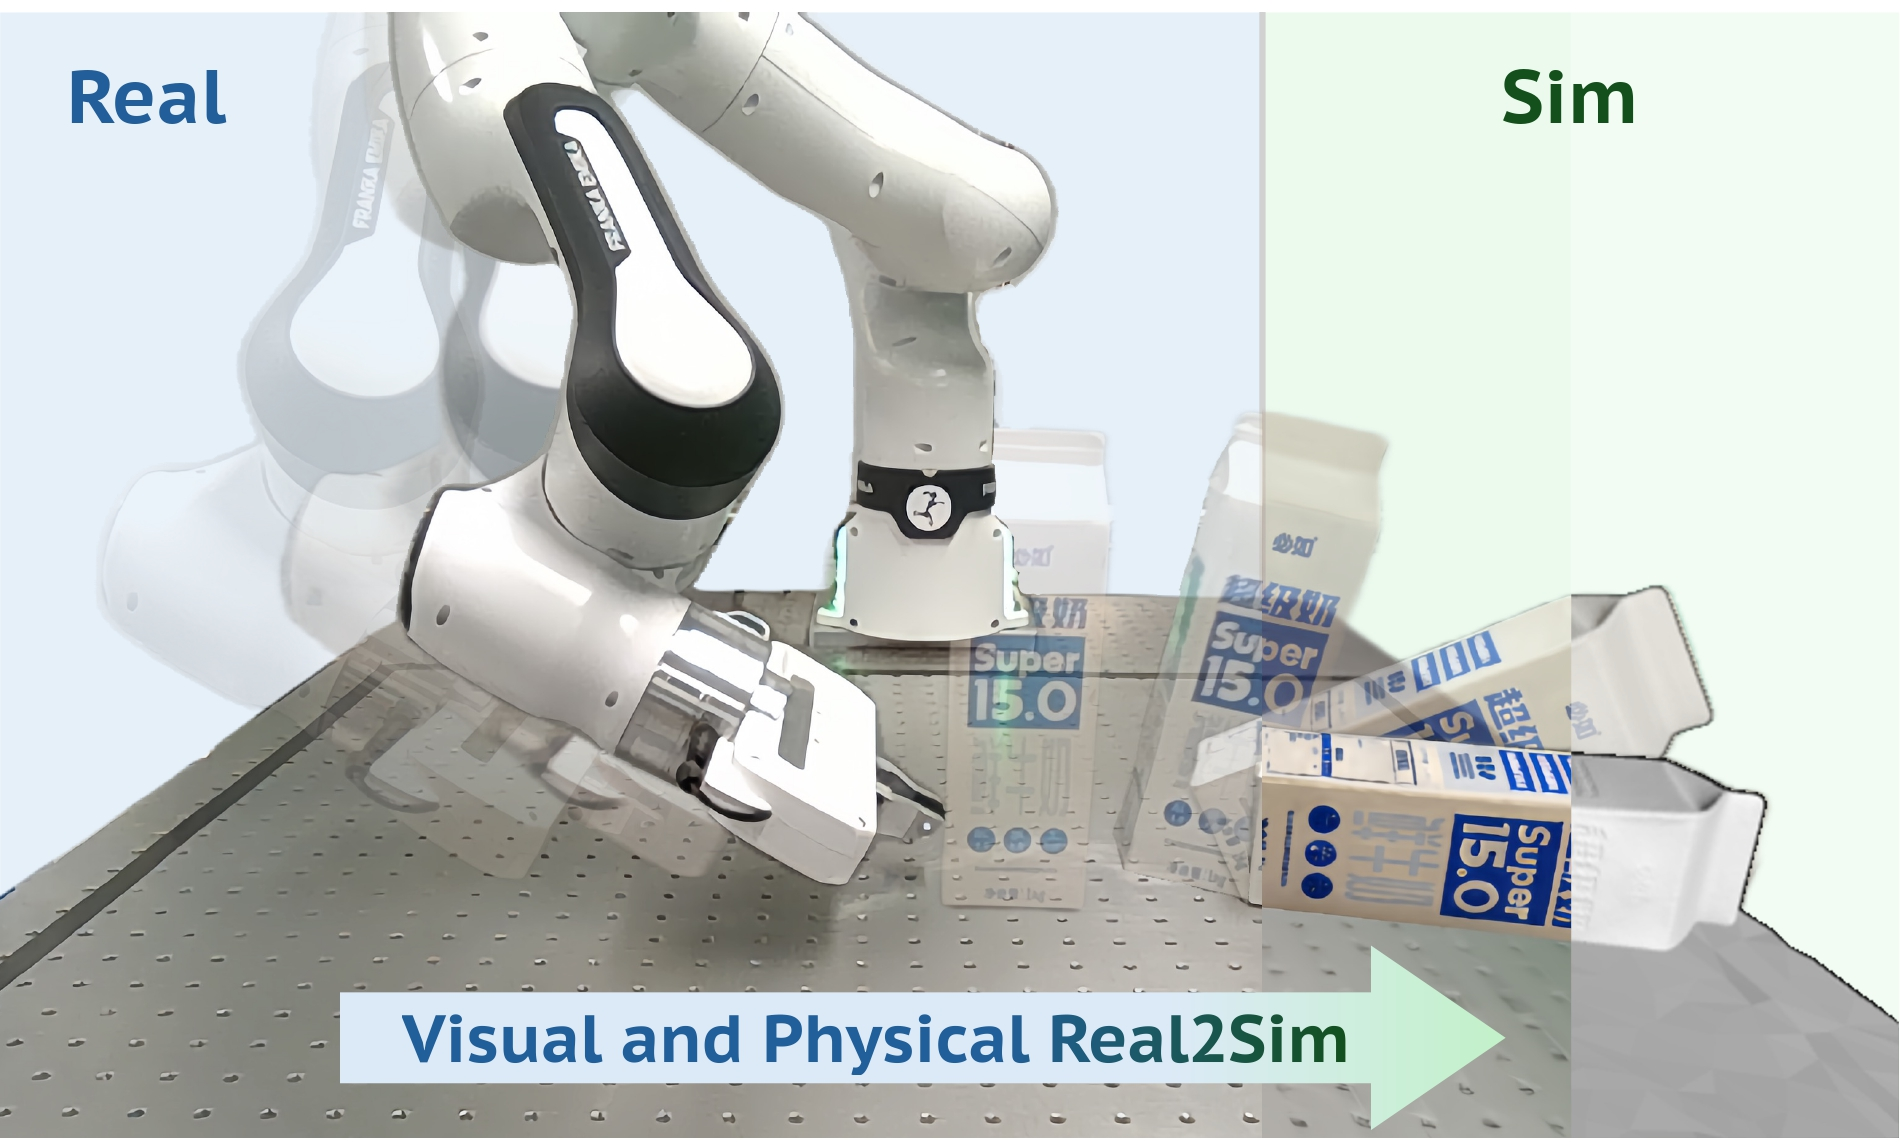
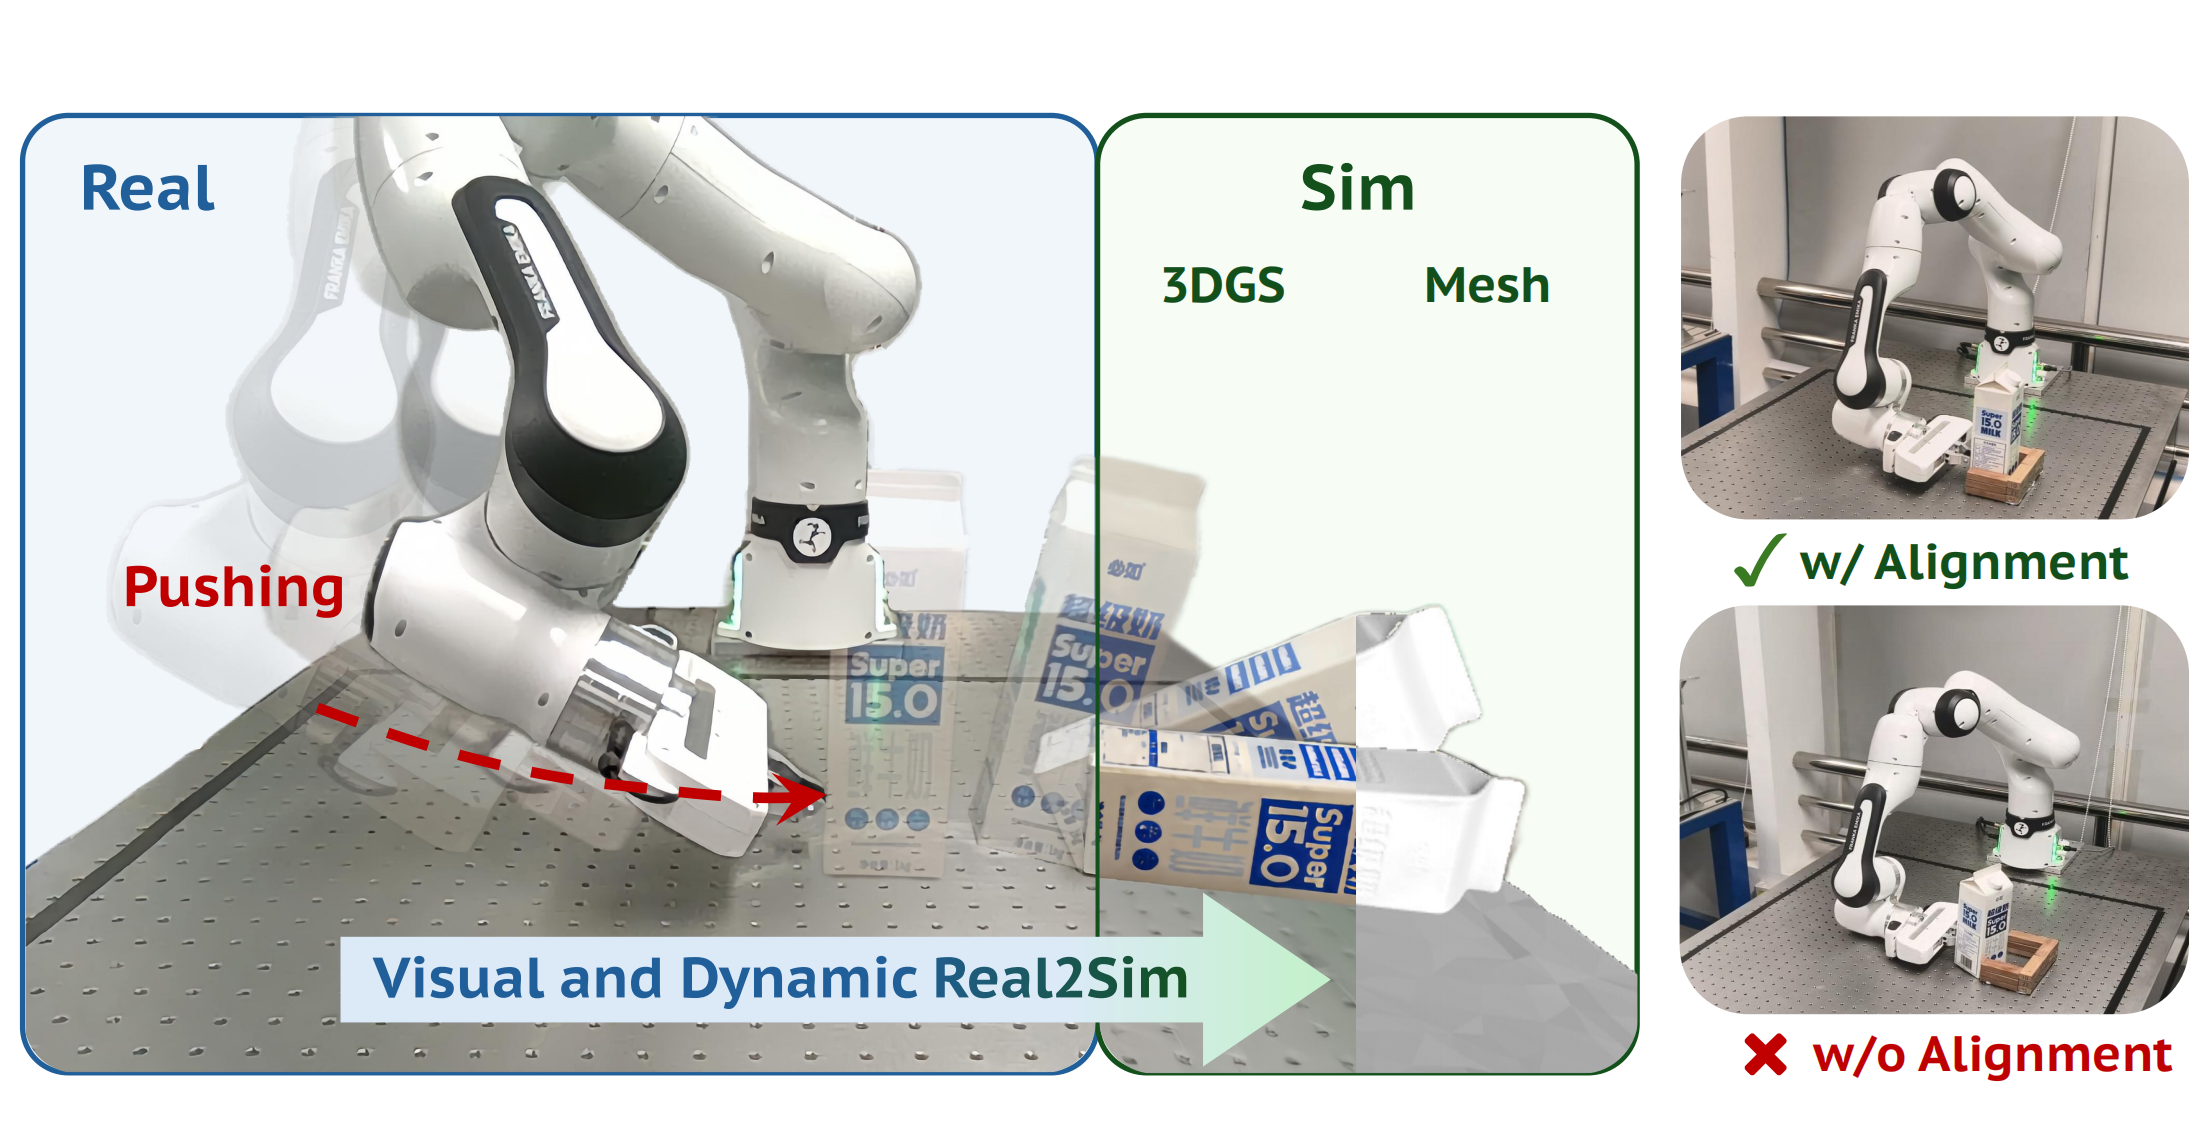
1

diff --git a/index.html b/index.html
@@ -120,7 +120,7 @@
                   <div class="block end">
                     <ul class="info-list">
                       <li><span class="title">Name</span><span class="value">Hang Dai (戴航)</span></li>
-                      <li><span class="title">Age</span><span class="value">19</span></li>
+                      <li><span class="title">Age</span><span class="value">20</span></li>
                       <li><span class="title">Address</span><span class="value">5 Yiheyuan Rd, Haidian District, Beijing, China, 100871</span></li>
                       <li><span class="title">e-mail</span><span class="value"><a href="mailto:email@addres.com">daihang@stu.pku.edu.cn</a></span></li>
                       <li><span class="title">Phone</span><span class="value">+8615850885218</span></li>
@@ -430,14 +430,22 @@
                     <a class="ajax-page-load" href="portfolio-1.html" style="display: flex; align-items: center;">
                       <img src="images/portfolio/1.jpg" alt="" style="width:240px; height:auto; margin-right:24px; border-radius:8px;">
                       <div style="flex:1;">
-                        <h5 class="name">TwinAligner: Visual and Physical Real2Sim2Real All-in-One for Robotic Manipulation</h5>
-                        <small>Paper</small>
-                        <i class="fa fa-file-text-o"></i>
+                        <h5 class="name">TwinAligner: Visual-Dynamic Alignment Empowers Physics-aware
+Real2Sim2Real for Robotic Manipulation</h5>
+                        </a>
+                        <a href="https://arxiv.org/pdf/2512.19390" target="_blank" title="View Paper" style="margin-right: 15px;">
+                          <small>Paper</small>
+                          <i class="fa fa-file-text-o"></i>
+                        </a>
+                        <a href="https://twin-aligner.github.io/" target="_blank" title="View Website">
+                          <small>Website</small>
+                          <i class="fa fa-globe"></i>
+                        </a>
                         <p style="margin-top:4px;font-size:13px;color:#666;">
                           Keywords: Real2Sim2Real, Physical Identification, Robot Learning
                         </p>
                       </div>
-                    </a>
+                    </div>
                   </figure>
                   <!-- /Portfolio Item 1 -->
 
